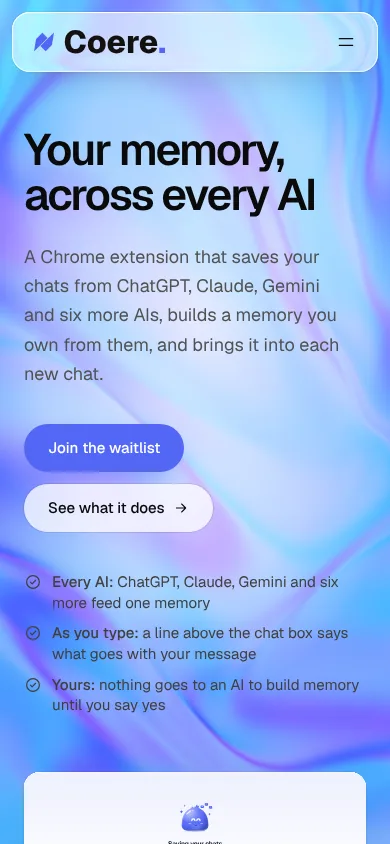
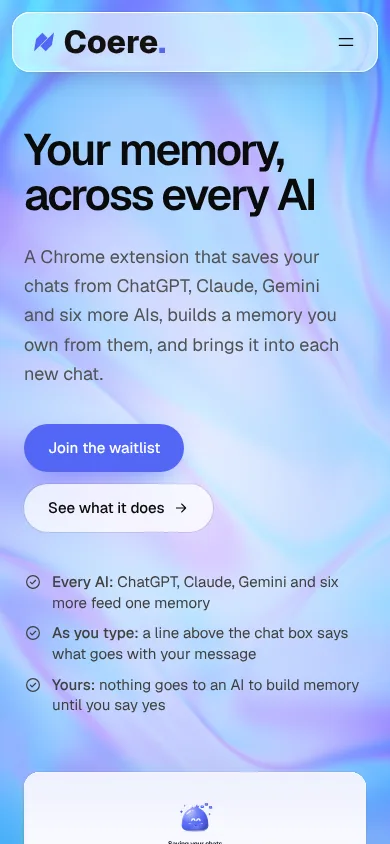
Shade the Forge and Connect copy more on a phone
On a phone the words sit over the brightest part of each background. Forge's dark shade and Connect's white glow now cover the whole stack of copy, so every line reads.

Claude-Session: https://claude.ai/code/session_01Ur6uqNCXa3ecJ23BnM9D9o

diff --git a/src/site/products/backdrops.tsx b/src/site/products/backdrops.tsx
@@ -13,7 +13,7 @@ export function ConnectBackdrop() {
   return (
     <div className="absolute inset-0 bg-white">
       <Iridescence color={CONNECT_TINT} />
-      <div className="absolute inset-0 bg-[radial-gradient(ellipse_75%_45%_at_50%_30%,rgba(255,255,255,0.78),rgba(255,255,255,0.45)_55%,transparent_80%)] lg:bg-[radial-gradient(ellipse_42%_55%_at_22%_52%,rgba(255,255,255,0.8),rgba(255,255,255,0.45)_55%,transparent_82%)]" />
+      <div className="absolute inset-0 bg-[radial-gradient(ellipse_95%_55%_at_50%_42%,rgba(255,255,255,0.78),rgba(255,255,255,0.45)_60%,transparent_85%)] lg:bg-[radial-gradient(ellipse_42%_55%_at_22%_52%,rgba(255,255,255,0.8),rgba(255,255,255,0.45)_55%,transparent_82%)]" />
     </div>
   );
 }
@@ -33,7 +33,7 @@ export function ForgeBackdrop() {
   return (
     <div className="absolute inset-0 bg-[#0b0a12]">
       <GradientASCII colors={["#2b3be0", "#f6f8ff", "#bcc5ff", "#6b7dfa"]} shape="horizon" />
-      <div className="absolute inset-0 bg-[linear-gradient(180deg,rgba(11,10,18,0.25),rgba(11,10,18,0.72)_30%,rgba(11,10,18,0.6)_60%,rgba(11,10,18,0.2))] lg:bg-[radial-gradient(ellipse_58%_95%_at_16%_52%,rgba(11,10,18,0.88),rgba(11,10,18,0.6)_55%,transparent_88%)]" />
+      <div className="absolute inset-0 bg-[linear-gradient(180deg,rgba(11,10,18,0.6),rgba(11,10,18,0.82)_25%,rgba(11,10,18,0.78)_65%,rgba(11,10,18,0.35))] lg:bg-[radial-gradient(ellipse_58%_95%_at_16%_52%,rgba(11,10,18,0.88),rgba(11,10,18,0.6)_55%,transparent_88%)]" />
     </div>
   );
 }
